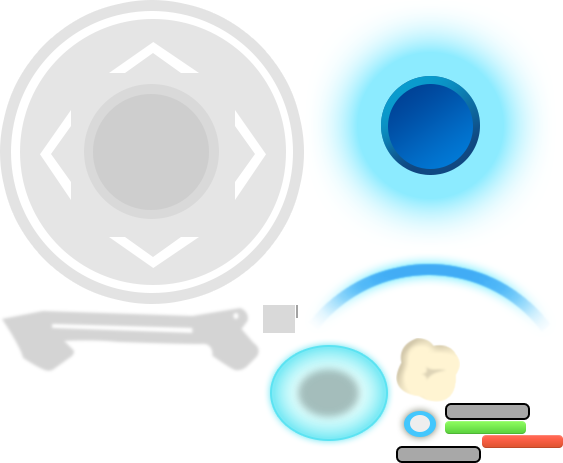
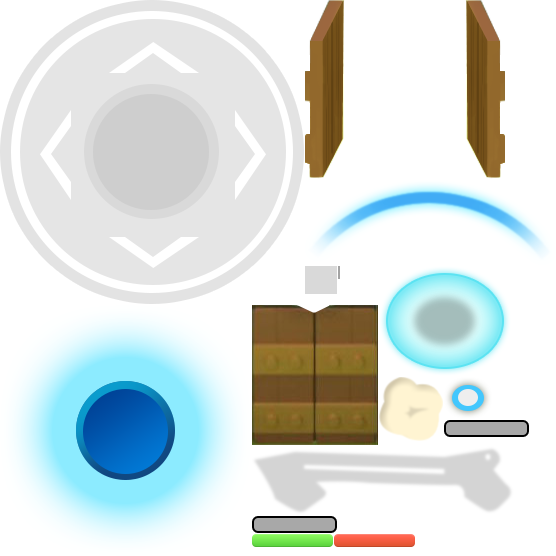
开关门，子弹命名

diff --git a/Game3D01/src/script/GameUI2.ts b/Game3D01/src/script/GameUI2.ts
@@ -18,6 +18,7 @@ import SysEnemy from "../main/sys/SysEnemy";
 import App from "../core/App";
 import AttackType from "../game/AttackType";
 import MonsterType from "../game/MonsterType";
+import BattleLoader from "../main/scene/battle/BattleLoader";
 export default class GameUI2 extends ui.test.TestSceneUI {
 
     constructor() {
@@ -170,7 +171,7 @@ export default class GameUI2 extends ui.test.TestSceneUI {
 
         Game.bg.drawR();
 
-        sp = Laya.loader.getRes("h5/jian/monster.lh");
+        sp = Laya.loader.getRes("h5/bullets/10001/monster.lh");
         var gpro = new GamePro(GameProType.HeroArrow);
         gpro.setSp3d(sp);
         Game.a0 = gpro;
@@ -206,7 +207,10 @@ export default class GameUI2 extends ui.test.TestSceneUI {
         Game.hero.rotation(90 / 180 * Math.PI);
         Game.hero.sp3d.transform.localPositionY = 15;
         Laya.Tween.to(Game.hero.sp3d.transform, { localPositionY: 0 }, 300, Laya.Ease.cubicIn,new Laya.Handler(this,this.onJumpDown));
-        Game.openDoor();
+
+        setTimeout(() => {
+            Game.openDoor();
+        }, 3000);
     }
 
     private onJumpDown():void{

diff --git a/Game3D01/src/game/GameBG.ts b/Game3D01/src/game/GameBG.ts
@@ -155,6 +155,7 @@ export default class GameBG extends Laya.Sprite {
     private _bottom: Image = new Image();
     private _topShadow:Image = new Image();
     private _leftShadow:Image = new Image();
+    private _door:Image = new Image();
     constructor() {
         super();
         GameBG.gameBG = this;
@@ -290,6 +291,9 @@ export default class GameBG extends Laya.Sprite {
         this._top.skin = GameBG.BG_TYPE + "/top.png";
         this._topShadow.y = 10 * GameBG.ww;
 
+        this._top.addChild(this._door);
+        this._door.pos(281,418);
+
         Game.frontLayer.addChild(this._bottom);
         this._bottom.x = GameBG.ww2;
         this._bottom.skin = GameBG.BG_TYPE + "/bottom.png";
@@ -302,6 +306,10 @@ export default class GameBG extends Laya.Sprite {
         GameBG.cy = this.y;
         GameBG.mcx = ((GameBG.wnum + 1) * (GameBG.ww)) / 2 - GameBG.mw2;
         GameBG.mcy = (GameBG.hnum * GameBG.ww) / 2 - GameBG.mw2;
+    }
+
+    public setDoor(state:number):void{
+        this._door.skin = 'bg/door' + state + '.png';
     }
 
     public drawR0(): void {

diff --git a/Game3D01/src/game/Game.ts b/Game3D01/src/game/Game.ts
@@ -83,8 +83,9 @@ export default class Game{
     static door:Laya.Sprite3D;
     static openDoor():void
     {
+        Game.bg.setDoor(1);
         let v3 = GameBG.get3D(6, 9);
-        Game.door = Laya.loader.getRes("h5/effects/door/hero.lh");
+        Game.door = Laya.Sprite3D.instantiate(Laya.loader.getRes("h5/effects/door/hero.lh"));
         Game.door.transform.translate(v3);
         Game.layer3d.addChild(Game.door);
         Game.map0.setDoor(true);
@@ -93,6 +94,7 @@ export default class Game{
     static closeDoor():void{
         Game.door && Game.door.removeSelf();
         Game.map0.setDoor(false);
+        Game.bg.setDoor(0);
     }
 
     static reset():void{

diff --git a/Game3D01/src/main/scene/battle/BattleLoader.ts b/Game3D01/src/main/scene/battle/BattleLoader.ts
@@ -47,7 +47,7 @@ export default class BattleLoader{
             "h5/effects/door/hero.lh"
         ];
         //主角
-        arr.push("h5/jian/monster.lh");
+        arr.push("h5/bullets/10001/monster.lh");
         arr.push("h5/gong/hero.lh");
         arr.push("h5/hero/hero.lh");
 
